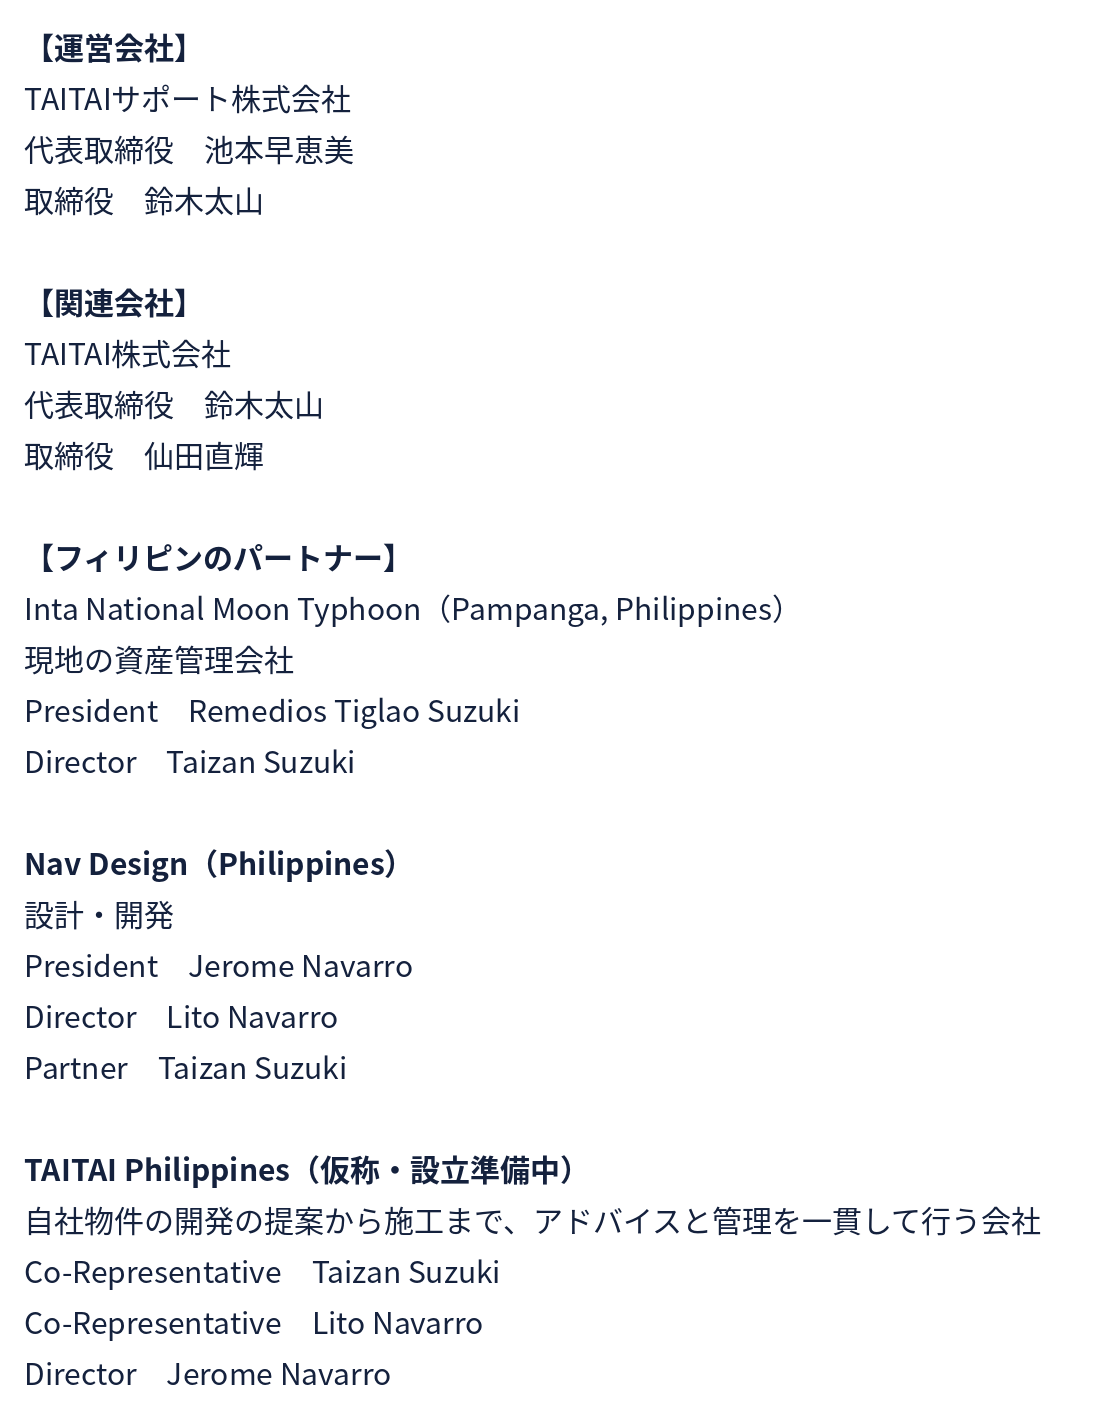
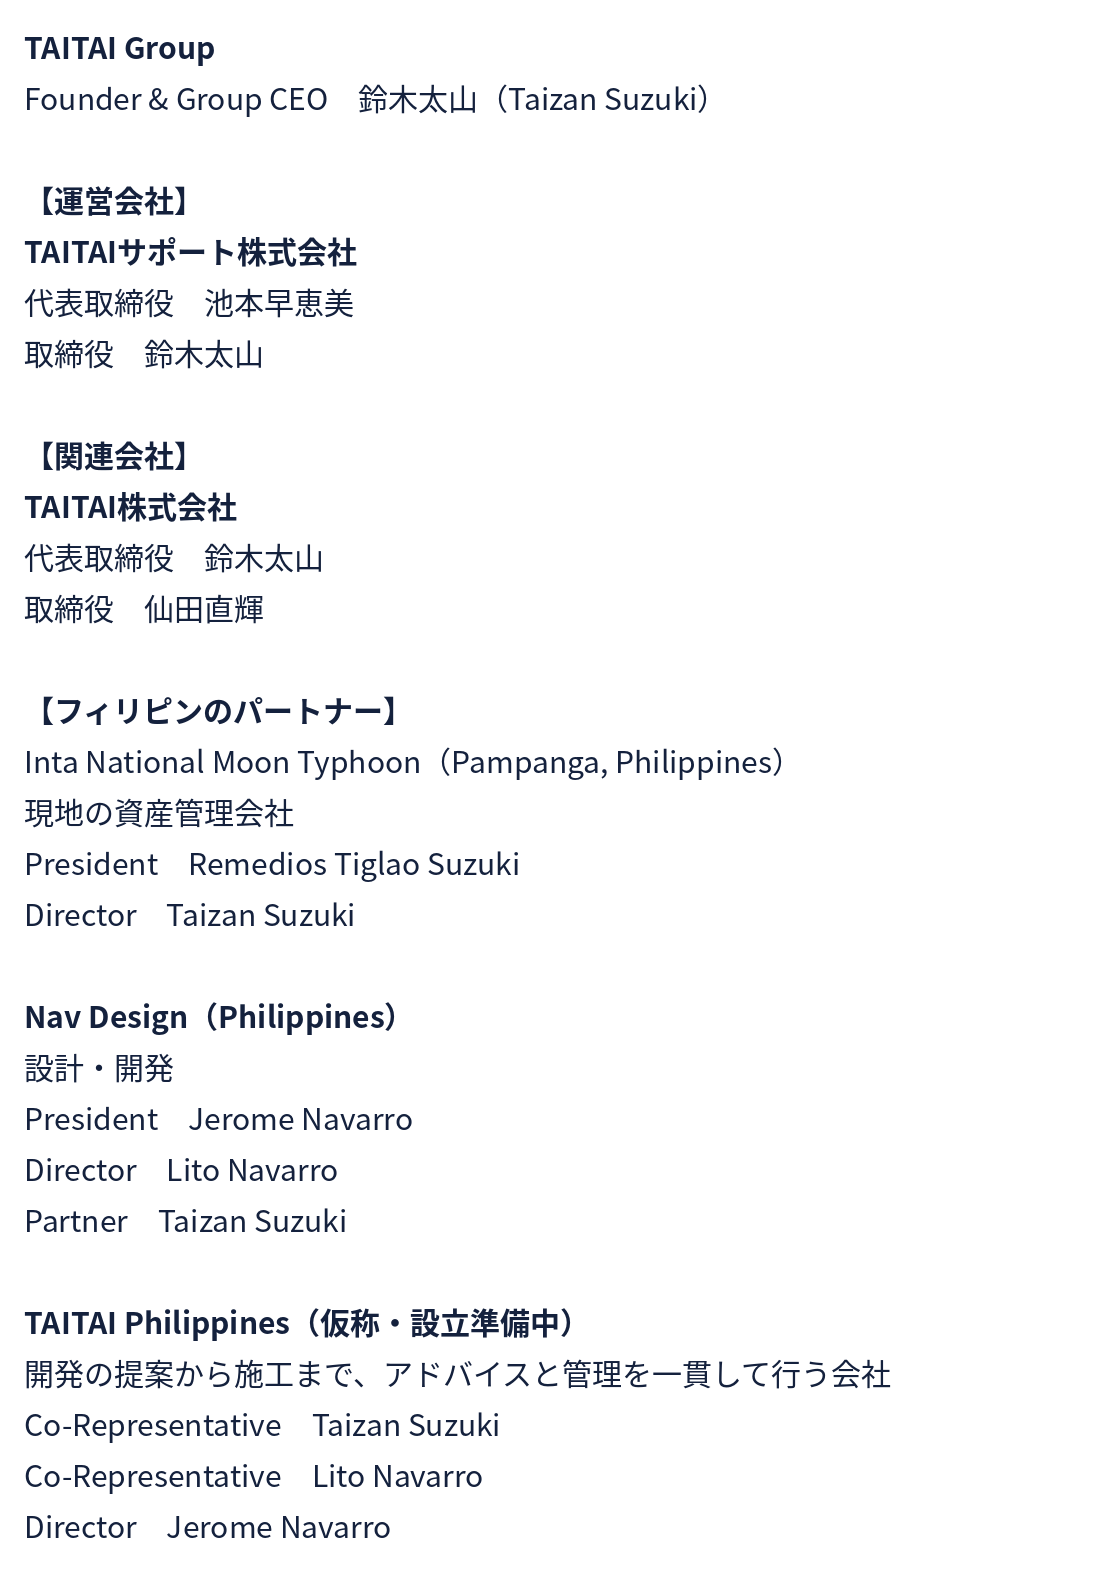
ホームページ：会社欄を「会社案内」に変更し、並びと文を差し替え
Claude-Session: https://claude.ai/code/session_019YKxWLUhY7yznkuYdQSmCn

diff --git a/index.html b/index.html
@@ -245,7 +245,7 @@ footer .pp{margin-top:14px;font-size:.84rem;color:var(--gray);line-height:1.7}
         <span class="kicker">代表あいさつ</span>
         <h2>フィリピンを、<br>好きになっていただきたい。<span class="bar"></span></h2>
         <p class="lead">フィリピンにルーツを持つ私にとって、この国は大切な場所です。今も東京とクラークを行き来しながら、「こんなこと聞いていいのかな」というご相談にも、一つずつお答えしています。小さなことでも、どうぞ気軽に声をかけてください。</p>
-        <p class="sign"><img src="images/names_signature.png" alt="代表あいさつ署名" width="360" height="110" style="max-width:100%;height:auto"></p>
+        <p class="sign"><img src="images/names_signature.png" alt="代表あいさつ署名" width="360" height="49" style="max-width:100%;height:auto"></p>
       </div>
       <div class="ph"><img src="images/greeting_rect.webp" alt="フィリピンの海辺" width="484" height="363"></div>
     </div>
@@ -295,7 +295,7 @@ footer .pp{margin-top:14px;font-size:.84rem;color:var(--gray);line-height:1.7}
 <footer>
   <div class="wrap grid">
     <a class="logo" href="#top" aria-label="TAITAI SUPPORT トップへ"><img src="images/logo.png" alt="TAITAI SUPPORT" width="640" height="146"></a>
-    <dl><div><dt>運営会社</dt><dd><img src="images/names_directors.png" alt="役員一覧" width="550" height="713" style="max-width:100%;height:auto"><br>〒163-1302 東京都新宿区西新宿6丁目5番1号 新宿アイランドタワー2階</dd></div></dl>
+    <dl><div><dt>会社案内</dt><dd><img src="images/names_directors.png" alt="会社案内" width="550" height="789" style="max-width:100%;height:auto"><br>〒163-1302 東京都新宿区西新宿6丁目5番1号 新宿アイランドタワー2階</dd></div></dl>
   </div>
   <div class="wrap"><p class="pp">個人情報の取り扱い：お預かりしたお名前・連絡先・ご相談の内容は、ご相談へのお返事と手続きのご案内にだけ使い、ご本人の了承なくほかの人や会社に渡すことはありません。</p><p class="copy">© TAITAI SUPPORT Co., Ltd.</p></div>
 </footer>
